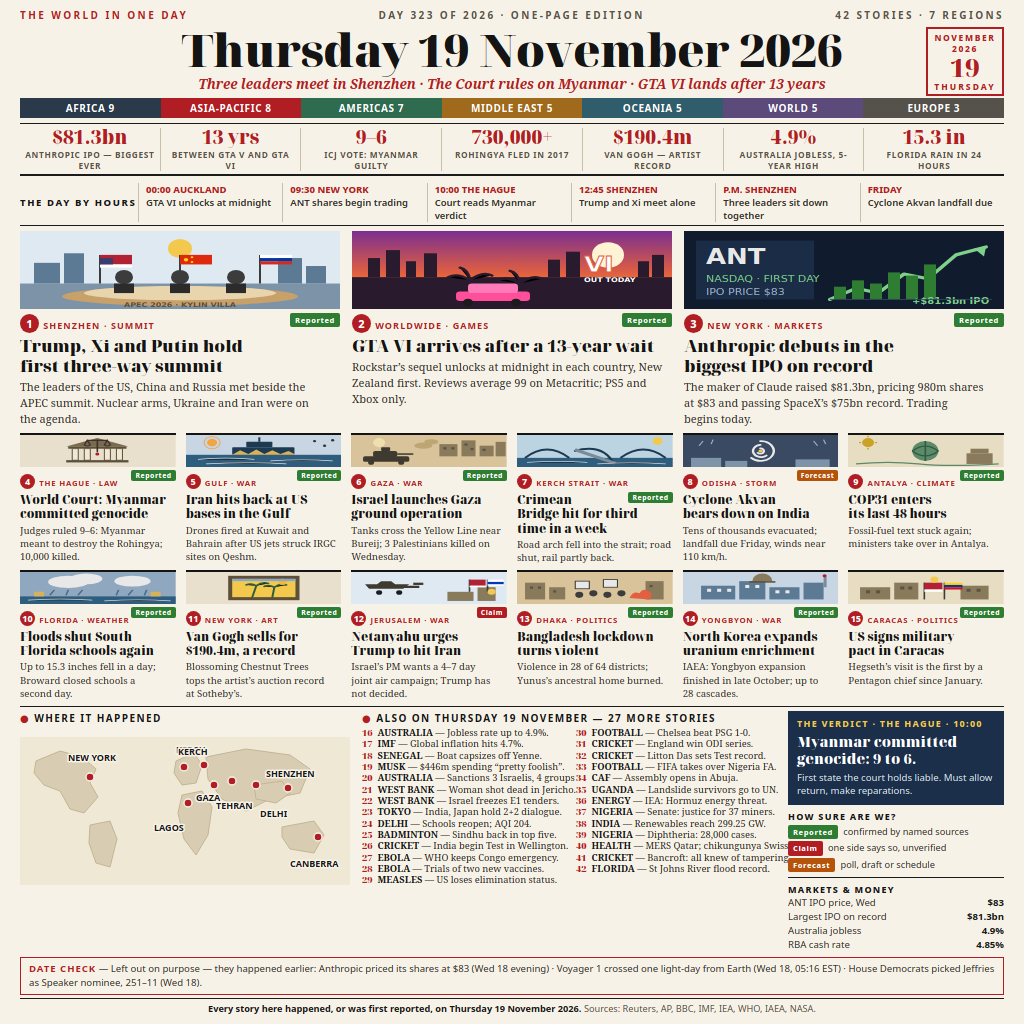
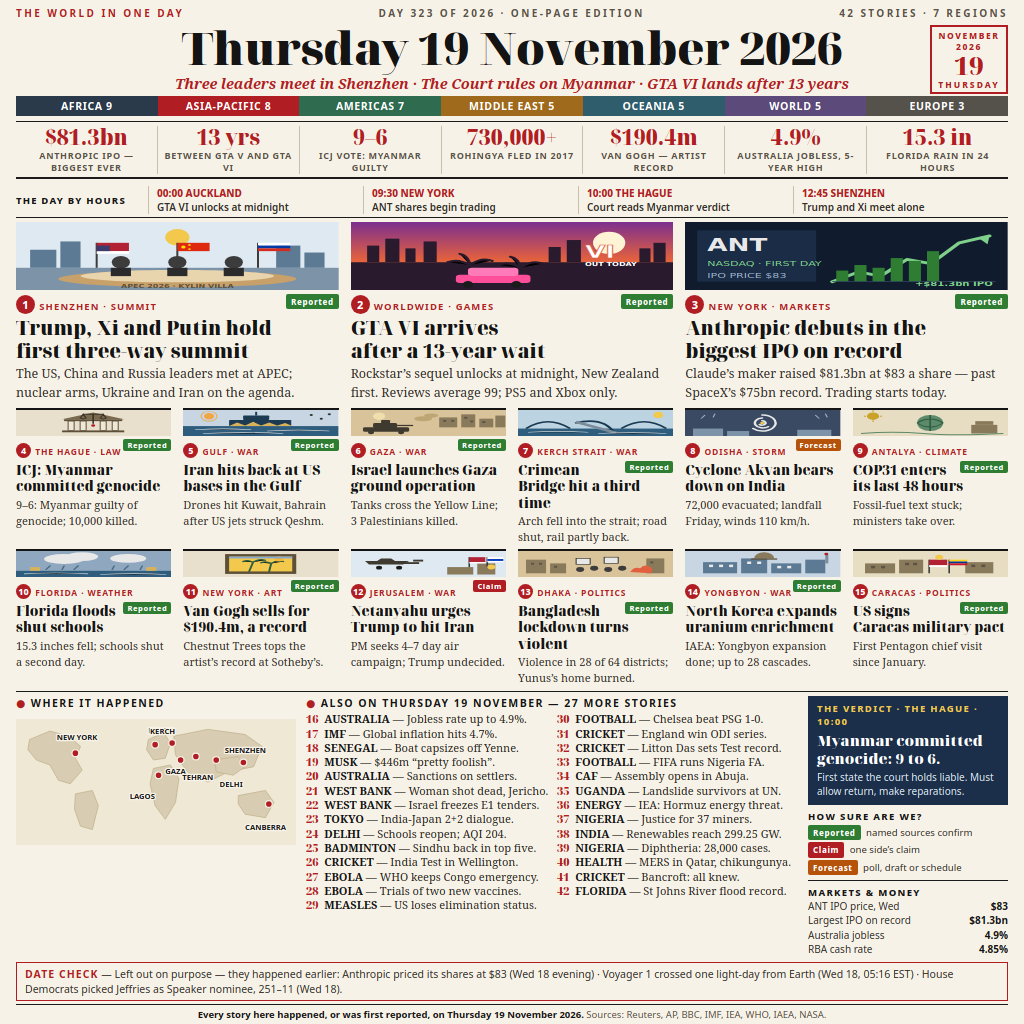
Round 3: bigger type for 300px legibility, same 42 stories

diff --git a/page.html b/page.html
@@ -14,7 +14,7 @@
   body { background: var(--paper); }
   .page {
     width: 1024px; height: 1024px; margin: 0 auto;
-    padding: 8px 20px 6px;
+    padding: 6px 16px 4px;
     background: var(--paper); color: var(--ink);
     font-family: "Noto Serif", "DejaVu Serif", Georgia, serif;
     overflow: hidden;
@@ -51,14 +51,14 @@
   .datebox .w { font-size: 8.5px; font-weight: 800; letter-spacing: 2px; }
   .subline {
     text-align: center; font-style: italic; font-weight: 700;
-    font-size: 13.5px; line-height: 1.3; color: var(--red); margin-top: 3px;
+    font-size: 14.5px; line-height: 1.25; color: var(--red); margin-top: 3px;
   }
 
   /* ---------- region bar ---------- */
   .regions {
     display: flex; margin-top: 4px;
     font-family: "Noto Sans", "DejaVu Sans", sans-serif;
-    font-size: 10px; font-weight: 700; letter-spacing: 0.06em; text-transform: uppercase;
+    font-size: 10.5px; font-weight: 700; letter-spacing: 0.06em; text-transform: uppercase;
   }
   .regions div { flex: 1; text-align: center; color: #fff; padding: 3px 0; font-variant-numeric: tabular-nums; }
   .regions .r-af { background: #2b3a4a; } .regions .r-ap { background: #b01e24; }
@@ -75,10 +75,10 @@
   .stat:first-child { border-left: none; }
   .stat .n {
     font-family: "Noto Serif Display", "Noto Serif", serif; font-weight: 900;
-    font-size: 19px; line-height: 1.05; color: var(--red); font-variant-numeric: tabular-nums;
+    font-size: 21px; line-height: 1.05; color: var(--red); font-variant-numeric: tabular-nums;
   }
   .stat .l {
-    font-family: "Noto Sans", "DejaVu Sans", sans-serif; font-size: 8.3px; font-weight: 700;
+    font-family: "Noto Sans", "DejaVu Sans", sans-serif; font-size: 9px; font-weight: 700;
     letter-spacing: 0.08em; text-transform: uppercase; color: var(--mut); margin-top: 2px; line-height: 1.3;
   }
 
@@ -89,17 +89,17 @@
     font-family: "Noto Sans", "DejaVu Sans", sans-serif;
   }
   .timeline .tlabel {
-    flex: 0 0 118px; font-size: 9.5px; font-weight: 800; letter-spacing: 1.6px;
+    flex: 0 0 132px; font-size: 9.5px; font-weight: 800; letter-spacing: 1.2px;
     text-transform: uppercase; color: var(--ink); align-self: center;
   }
-  .timeline .slot { flex: 1; padding: 0 7px; border-left: 1px solid var(--hair); }
-  .timeline .tm { font-size: 9.5px; font-weight: 800; color: var(--red); font-variant-numeric: tabular-nums; }
-  .timeline .tx { font-size: 9.5px; font-weight: 600; color: #33302a; line-height: 1.3; margin-top: 1px; }
+  .timeline .slot { flex: 1; padding: 0 8px; border-left: 1px solid var(--hair); }
+  .timeline .tm { font-size: 10px; font-weight: 800; color: var(--red); font-variant-numeric: tabular-nums; }
+  .timeline .tx { font-size: 10px; font-weight: 600; color: #33302a; line-height: 1.35; margin-top: 1px; white-space: nowrap; }
 
   /* ---------- hero cards ---------- */
-  .heroes { display: flex; gap: 12px; margin-top: 5px; }
+  .heroes { display: flex; gap: 12px; margin-top: 4px; }
   .hero { flex: 1; min-width: 0; }
-  .hero svg.scene { display: block; width: 100%; height: 78px; }
+  .hero svg.scene { display: block; width: 100%; height: 68px; }
   .num {
     display: inline-block; width: 19px; height: 19px; line-height: 19px; text-align: center;
     border-radius: 50%; background: var(--red); color: #fff;
@@ -107,84 +107,83 @@
     font-variant-numeric: tabular-nums; vertical-align: 1px;
   }
   .kick {
-    font-family: "Noto Sans", "DejaVu Sans", sans-serif; font-size: 9px; font-weight: 700;
+    font-family: "Noto Sans", "DejaVu Sans", sans-serif; font-size: 9.5px; font-weight: 700;
     letter-spacing: 0.12em; text-transform: uppercase; color: var(--red);
   }
   .tag {
     float: right; font-family: "Noto Sans", "DejaVu Sans", sans-serif;
-    font-size: 7.5px; font-weight: 800; letter-spacing: 0.08em; color: #fff;
+    font-size: 8px; font-weight: 800; letter-spacing: 0.08em; color: #fff;
     padding: 2px 5px; border-radius: 2px; margin-top: 1px;
   }
   .tag.rep { background: var(--green); } .tag.fc { background: var(--amber); } .tag.cl { background: var(--red); }
   .hero h2 {
     font-family: "Noto Serif Display", "Noto Serif", serif; font-weight: 900;
-    font-size: 17px; line-height: 1.18; letter-spacing: -0.005em; margin-top: 2px; color: var(--ink);
+    font-size: 19.5px; line-height: 1.15; letter-spacing: -0.005em; margin-top: 2px; color: var(--ink);
     text-wrap: balance;
   }
-  .hero p { font-size: 11px; line-height: 1.45; color: #33302a; margin-top: 3px; text-wrap: pretty; }
+  .hero p { font-size: 12.5px; line-height: 1.5; color: #33302a; margin-top: 3px; text-wrap: pretty; }
   .hero .krow { margin-top: 3px; }
 
   /* ---------- mid grid ---------- */
-  .mids { display: flex; gap: 10px; margin-top: 6px; }
+  .mids { display: flex; gap: 12px; margin-top: 5px; }
   .mid { flex: 1; min-width: 0; border-top: 2.5px solid var(--ink); padding-top: 0; }
-  .mid svg.scene { display: block; width: 100%; height: 32px; }
+  .mid svg.scene { display: block; width: 100%; height: 26px; }
   .mid .num { width: 15px; height: 15px; line-height: 15px; font-size: 9px; }
-  .mid .kick { font-size: 7.8px; letter-spacing: 0.1em; }
-  .mid .tag { font-size: 6.8px; padding: 1px 4px; }
+  .mid .kick { font-size: 8.5px; letter-spacing: 0.1em; }
+  .mid .tag { font-size: 7.5px; padding: 1px 4px; }
   .mid .krow { margin-top: 2px; }
   .mid h3 {
     font-family: "Noto Serif Display", "Noto Serif", serif; font-weight: 900;
-    font-size: 12px; line-height: 1.2; margin-top: 2px; color: var(--ink);
-    text-wrap: balance;
+    font-size: 13.5px; line-height: 1.22; margin-top: 2px; color: var(--ink);
   }
-  .mid p { font-size: 9.6px; line-height: 1.38; color: #33302a; margin-top: 2px; text-wrap: pretty; }
-  .mids2 { margin-top: 5px; }
+  .mid p { font-size: 11px; line-height: 1.45; color: #33302a; margin-top: 2px; text-wrap: pretty; }
+  .mids2 { margin-top: 4px; }
 
   /* ---------- bottom row ---------- */
-  .bottom { display: flex; gap: 12px; margin-top: 6px; padding-top: 4px; border-top: 1px solid var(--rule); }
-  .mapbox { flex: 0 0 330px; }
-  .mapbox svg { display: block; width: 330px; height: 168px; }
+  .bottom { display: flex; gap: 10px; margin-top: 5px; padding-top: 4px; border-top: 1px solid var(--rule); }
+  .mapbox { flex: 0 0 280px; }
+  .mapbox svg { display: block; width: 280px; height: 140px; }
   .maplabel { font-family: "Noto Sans", "DejaVu Sans", sans-serif; font-size: 9px; font-weight: 700; fill: var(--ink); paint-order: stroke; stroke: var(--paper); stroke-width: 3px; stroke-linejoin: round; }
   .sect {
-    font-family: "Noto Sans", "DejaVu Sans", sans-serif; font-size: 10px; font-weight: 700;
+    font-family: "Noto Sans", "DejaVu Sans", sans-serif; font-size: 10.5px; font-weight: 700;
     letter-spacing: 0.14em; text-transform: uppercase; color: var(--ink); margin-bottom: 2px;
   }
   .sect span { color: var(--red); }
   .alsobox { flex: 1; min-width: 0; }
-  .alsocols { display: flex; gap: 14px; }
+  .alsocols { display: flex; gap: 10px; }
   .alsocol { flex: 1; min-width: 0; }
-  .alsoitem { font-size: 9.3px; line-height: 1.22; color: #2b2822; padding: 0; white-space: nowrap; }
+  .alsoitem { font-size: 11px; line-height: 1.3; color: #2b2822; padding: 0; white-space: nowrap; }
   .alsoitem .no { font-family: "Noto Serif Display", serif; font-weight: 900; color: var(--red); font-variant-numeric: tabular-nums; }
   .alsoitem b { color: var(--ink); }
-  .rail { flex: 0 0 216px; }
+  .rail { flex: 0 0 200px; }
   .verdict {
     background: var(--navy); color: #fff; padding: 6px 9px 7px;
     font-family: "Noto Sans", "DejaVu Sans", sans-serif;
   }
-  .verdict .vh { font-size: 9px; font-weight: 800; letter-spacing: 0.14em; color: #f2c94c; }
+  .verdict .vh { font-size: 9.5px; font-weight: 800; letter-spacing: 0.14em; color: #f2c94c; }
   .verdict .vb {
     font-family: "Noto Serif Display", "Noto Serif", serif; font-weight: 900;
-    font-size: 14.5px; line-height: 1.2; margin-top: 3px;
+    font-size: 15px; line-height: 1.2; margin-top: 3px;
   }
-  .verdict .vd { font-size: 9.6px; line-height: 1.4; margin-top: 3px; color: #dfe6ef; }
+  .verdict .vd { font-size: 10px; line-height: 1.4; margin-top: 3px; color: #dfe6ef; }
   .legend { margin-top: 5px; font-family: "Noto Sans", "DejaVu Sans", sans-serif; }
-  .legend .lh { font-size: 9px; font-weight: 800; letter-spacing: 0.14em; text-transform: uppercase; color: var(--ink); }
-  .legend .li { font-size: 9.2px; line-height: 1.4; color: #33302a; margin-top: 2px; }
+  .legend .lh { font-size: 9.5px; font-weight: 800; letter-spacing: 0.14em; text-transform: uppercase; color: var(--ink); }
+  .legend .li { font-size: 9.6px; line-height: 1.4; color: #33302a; margin-top: 2px; }
   .legend .li .tag { float: none; display: inline-block; margin: 0 3px 0 0; vertical-align: 0; }
   .markets { margin-top: 5px; padding-top: 5px; border-top: 1px solid var(--rule); font-family: "Noto Sans", "DejaVu Sans", sans-serif; }
-  .markets .mh { font-size: 9px; font-weight: 800; letter-spacing: 0.14em; text-transform: uppercase; color: var(--ink); }
-  .markets .mi { display: flex; justify-content: space-between; font-size: 9.6px; line-height: 1.45; color: #33302a; }
+  .markets .mh { font-size: 9.5px; font-weight: 800; letter-spacing: 0.14em; text-transform: uppercase; color: var(--ink); }
+  .markets .mi { display: flex; justify-content: space-between; font-size: 10px; line-height: 1.45; color: #33302a; }
   .markets .mi b { color: var(--ink); font-variant-numeric: tabular-nums; }
 
   /* ---------- date check + footer ---------- */
   .datecheck {
     margin-top: 5px; padding: 4px 8px; border: 1.5px solid var(--red);
-    font-family: "Noto Sans", "DejaVu Sans", sans-serif; font-size: 9.6px; line-height: 1.45; color: #33302a;
+    font-family: "Noto Sans", "DejaVu Sans", sans-serif; font-size: 10.5px; line-height: 1.4; color: #33302a;
   }
   .datecheck b { color: var(--red); letter-spacing: 0.1em; }
   .foot {
     margin-top: 3px; padding-top: 3px; border-top: 1px solid var(--rule);
-    font-family: "Noto Sans", "DejaVu Sans", sans-serif; font-size: 9.2px; line-height: 1.45; color: var(--mut);
+    font-family: "Noto Sans", "DejaVu Sans", sans-serif; font-size: 9.5px; line-height: 1.45; color: var(--mut);
     text-align: center;
   }
   .foot b { color: var(--ink); }
@@ -234,8 +233,6 @@
     <div class="slot"><div class="tm">09:30 NEW YORK</div><div class="tx">ANT shares begin trading</div></div>
     <div class="slot"><div class="tm">10:00 THE HAGUE</div><div class="tx">Court reads Myanmar verdict</div></div>
     <div class="slot"><div class="tm">12:45 SHENZHEN</div><div class="tx">Trump and Xi meet alone</div></div>
-    <div class="slot"><div class="tm">P.M. SHENZHEN</div><div class="tx">Three leaders sit down together</div></div>
-    <div class="slot"><div class="tm">FRIDAY</div><div class="tx">Cyclone Akvan landfall due</div></div>
   </div>
 
   <!-- ================= HERO ROW: 3 BIG STORIES ================= -->
@@ -266,7 +263,7 @@
       </svg>
       <div class="krow"><span class="num">1</span> <span class="kick">Shenzhen &middot; Summit</span><span class="tag rep">Reported</span></div>
       <h2>Trump, Xi and Putin hold first three-way summit</h2>
-      <p>The leaders of the US, China and Russia met beside the APEC summit. Nuclear arms, Ukraine and Iran were on the agenda.</p>
+      <p>The US, China and Russia leaders met at APEC; nuclear arms, Ukraine and Iran on the agenda.</p>
     </div>
     <div class="hero">
       <svg class="scene" viewBox="0 0 320 98" preserveAspectRatio="none" aria-hidden="true">
@@ -296,7 +293,7 @@
       </svg>
       <div class="krow"><span class="num">2</span> <span class="kick">Worldwide &middot; Games</span><span class="tag rep">Reported</span></div>
       <h2>GTA VI arrives after a 13-year wait</h2>
-      <p>Rockstar&rsquo;s sequel unlocks at midnight in each country, New Zealand first. Reviews average 99 on Metacritic; PS5 and Xbox only.</p>
+      <p>Rockstar&rsquo;s sequel unlocks at midnight, New Zealand first. Reviews average 99; PS5 and Xbox only.</p>
     </div>
     <div class="hero">
       <svg class="scene" viewBox="0 0 320 98" preserveAspectRatio="none" aria-hidden="true">
@@ -313,7 +310,7 @@
       </svg>
       <div class="krow"><span class="num">3</span> <span class="kick">New York &middot; Markets</span><span class="tag rep">Reported</span></div>
       <h2>Anthropic debuts in the biggest IPO on record</h2>
-      <p>The maker of Claude raised $81.3bn, pricing 980m shares at $83 and passing SpaceX&rsquo;s $75bn record. Trading begins today.</p>
+      <p>Claude&rsquo;s maker raised $81.3bn at $83 a share &mdash; past SpaceX&rsquo;s $75bn record. Trading starts today.</p>
     </div>
   </div>
 
@@ -337,8 +334,8 @@
         <circle cx="77" cy="25" r="2" fill="#b01e24"/>
       </svg>
       <div class="krow"><span class="num">4</span> <span class="kick">The Hague &middot; Law</span><span class="tag rep">Reported</span></div>
-      <h3>World Court: Myanmar committed genocide</h3>
-      <p>Judges ruled 9&ndash;6: Myanmar meant to destroy the Rohingya; 10,000 killed.</p>
+      <h3>ICJ: Myanmar committed genocide</h3>
+      <p>9&ndash;6: Myanmar guilty of genocide; 10,000 killed.</p>
     </div>
     <div class="mid">
       <svg class="scene" viewBox="0 0 155 42" preserveAspectRatio="none" aria-hidden="true">
@@ -352,7 +349,7 @@
       </svg>
       <div class="krow"><span class="num">5</span> <span class="kick">Gulf &middot; War</span><span class="tag rep">Reported</span></div>
       <h3>Iran hits back at US bases in the Gulf</h3>
-      <p>Drones fired at Kuwait and Bahrain after US jets struck IRGC sites on Qeshm.</p>
+      <p>Drones hit Kuwait, Bahrain after US jets struck Qeshm.</p>
     </div>
     <div class="mid">
       <svg class="scene" viewBox="0 0 155 42" preserveAspectRatio="none" aria-hidden="true">
@@ -368,7 +365,7 @@
       </svg>
       <div class="krow"><span class="num">6</span> <span class="kick">Gaza &middot; War</span><span class="tag rep">Reported</span></div>
       <h3>Israel launches Gaza ground operation</h3>
-      <p>Tanks cross the Yellow Line near Bureij; 3 Palestinians killed on Wednesday.</p>
+      <p>Tanks cross the Yellow Line; 3 Palestinians killed.</p>
     </div>
     <div class="mid">
       <svg class="scene" viewBox="0 0 155 42" preserveAspectRatio="none" aria-hidden="true">
@@ -386,8 +383,8 @@
         <circle cx="140" cy="8" r="5" fill="#f2c94c"/>
       </svg>
       <div class="krow"><span class="num">7</span> <span class="kick">Kerch Strait &middot; War</span><span class="tag rep">Reported</span></div>
-      <h3>Crimean Bridge hit for third time in a week</h3>
-      <p>Road arch fell into the strait; road shut, rail partly back.</p>
+      <h3>Crimean Bridge hit a third time</h3>
+      <p>Arch fell into the strait; road shut, rail partly back.</p>
     </div>
     <div class="mid">
       <svg class="scene" viewBox="0 0 155 42" preserveAspectRatio="none" aria-hidden="true">
@@ -403,7 +400,7 @@
       </svg>
       <div class="krow"><span class="num">8</span> <span class="kick">Odisha &middot; Storm</span><span class="tag fc">Forecast</span></div>
       <h3>Cyclone Akvan bears down on India</h3>
-      <p>Tens of thousands evacuated; landfall due Friday, winds near 110 km/h.</p>
+      <p>72,000 evacuated; landfall Friday, winds 110 km/h.</p>
     </div>
     <div class="mid">
       <svg class="scene" viewBox="0 0 155 42" preserveAspectRatio="none" aria-hidden="true">
@@ -418,7 +415,7 @@
       </svg>
       <div class="krow"><span class="num">9</span> <span class="kick">Antalya &middot; Climate</span><span class="tag rep">Reported</span></div>
       <h3>COP31 enters its last 48 hours</h3>
-      <p>Fossil-fuel text stuck again; ministers take over in Antalya.</p>
+      <p>Fossil-fuel text stuck; ministers take over.</p>
     </div>
   </div>
 
@@ -437,8 +434,8 @@
         <g stroke="#fff" stroke-width="1" opacity="0.8"><path d="M8 37 Q40 34 72 37 M84 38 Q118 35 150 38"/></g>
       </svg>
       <div class="krow"><span class="num">10</span> <span class="kick">Florida &middot; Weather</span><span class="tag rep">Reported</span></div>
-      <h3>Floods shut South Florida schools again</h3>
-      <p>Up to 15.3 inches fell in a day; Broward closed schools a second day.</p>
+      <h3>Florida floods shut schools</h3>
+      <p>15.3 inches fell; schools shut a second day.</p>
     </div>
     <div class="mid">
       <svg class="scene" viewBox="0 0 155 42" preserveAspectRatio="none" aria-hidden="true">
@@ -453,7 +450,7 @@
       </svg>
       <div class="krow"><span class="num">11</span> <span class="kick">New York &middot; Art</span><span class="tag rep">Reported</span></div>
       <h3>Van Gogh sells for $190.4m, a record</h3>
-      <p>Blossoming Chestnut Trees tops the artist&rsquo;s auction record at Sotheby&rsquo;s.</p>
+      <p>Chestnut Trees tops the artist&rsquo;s record at Sotheby&rsquo;s.</p>
     </div>
     <div class="mid">
       <svg class="scene" viewBox="0 0 155 42" preserveAspectRatio="none" aria-hidden="true">
@@ -468,7 +465,7 @@
       </svg>
       <div class="krow"><span class="num">12</span> <span class="kick">Jerusalem &middot; War</span><span class="tag cl">Claim</span></div>
       <h3>Netanyahu urges Trump to hit Iran</h3>
-      <p>Israel&rsquo;s PM wants a 4&ndash;7 day joint air campaign; Trump has not decided.</p>
+      <p>PM seeks 4&ndash;7 day air campaign; Trump undecided.</p>
     </div>
     <div class="mid">
       <svg class="scene" viewBox="0 0 155 42" preserveAspectRatio="none" aria-hidden="true">
@@ -481,7 +478,7 @@
       </svg>
       <div class="krow"><span class="num">13</span> <span class="kick">Dhaka &middot; Politics</span><span class="tag rep">Reported</span></div>
       <h3>Bangladesh lockdown turns violent</h3>
-      <p>Violence in 28 of 64 districts; Yunus&rsquo;s ancestral home burned.</p>
+      <p>Violence in 28 of 64 districts; Yunus&rsquo;s home burned.</p>
     </div>
     <div class="mid">
       <svg class="scene" viewBox="0 0 155 42" preserveAspectRatio="none" aria-hidden="true">
@@ -497,7 +494,7 @@
       </svg>
       <div class="krow"><span class="num">14</span> <span class="kick">Yongbyon &middot; War</span><span class="tag rep">Reported</span></div>
       <h3>North Korea expands uranium enrichment</h3>
-      <p>IAEA: Yongbyon expansion finished in late October; up to 28 cascades.</p>
+      <p>IAEA: Yongbyon expansion done; up to 28 cascades.</p>
     </div>
     <div class="mid">
       <svg class="scene" viewBox="0 0 155 42" preserveAspectRatio="none" aria-hidden="true">
@@ -510,8 +507,8 @@
         <circle cx="86" cy="10" r="4" fill="#f2c94c"/>
       </svg>
       <div class="krow"><span class="num">15</span> <span class="kick">Caracas &middot; Politics</span><span class="tag rep">Reported</span></div>
-      <h3>US signs military pact in Caracas</h3>
-      <p>Hegseth&rsquo;s visit is the first by a Pentagon chief since January.</p>
+      <h3>US signs Caracas military pact</h3>
+      <p>First Pentagon chief visit since January.</p>
     </div>
   </div>
 
@@ -555,14 +552,14 @@
           <div class="alsoitem"><span class="no">16</span> &nbsp;<b>AUSTRALIA</b> &mdash; Jobless rate up to 4.9%.</div>
           <div class="alsoitem"><span class="no">17</span> &nbsp;<b>IMF</b> &mdash; Global inflation hits 4.7%.</div>
           <div class="alsoitem"><span class="no">18</span> &nbsp;<b>SENEGAL</b> &mdash; Boat capsizes off Yenne.</div>
-          <div class="alsoitem"><span class="no">19</span> &nbsp;<b>MUSK</b> &mdash; $446m spending &ldquo;pretty foolish&rdquo;.</div>
-          <div class="alsoitem"><span class="no">20</span> &nbsp;<b>AUSTRALIA</b> &mdash; Sanctions 3 Israelis, 4 groups</div>
-          <div class="alsoitem"><span class="no">21</span> &nbsp;<b>WEST BANK</b> &mdash; Woman shot dead in Jericho.</div>
+          <div class="alsoitem"><span class="no">19</span> &nbsp;<b>MUSK</b> &mdash; $446m &ldquo;pretty foolish&rdquo;.</div>
+          <div class="alsoitem"><span class="no">20</span> &nbsp;<b>AUSTRALIA</b> &mdash; Sanctions on settlers.</div>
+          <div class="alsoitem"><span class="no">21</span> &nbsp;<b>WEST BANK</b> &mdash; Woman shot dead, Jericho.</div>
           <div class="alsoitem"><span class="no">22</span> &nbsp;<b>WEST BANK</b> &mdash; Israel freezes E1 tenders.</div>
-          <div class="alsoitem"><span class="no">23</span> &nbsp;<b>TOKYO</b> &mdash; India, Japan hold 2+2 dialogue.</div>
+          <div class="alsoitem"><span class="no">23</span> &nbsp;<b>TOKYO</b> &mdash; India-Japan 2+2 dialogue.</div>
           <div class="alsoitem"><span class="no">24</span> &nbsp;<b>DELHI</b> &mdash; Schools reopen; AQI 204.</div>
           <div class="alsoitem"><span class="no">25</span> &nbsp;<b>BADMINTON</b> &mdash; Sindhu back in top five.</div>
-          <div class="alsoitem"><span class="no">26</span> &nbsp;<b>CRICKET</b> &mdash; India begin Test in Wellington.</div>
+          <div class="alsoitem"><span class="no">26</span> &nbsp;<b>CRICKET</b> &mdash; India Test in Wellington.</div>
           <div class="alsoitem"><span class="no">27</span> &nbsp;<b>EBOLA</b> &mdash; WHO keeps Congo emergency.</div>
           <div class="alsoitem"><span class="no">28</span> &nbsp;<b>EBOLA</b> &mdash; Trials of two new vaccines.</div>
           <div class="alsoitem"><span class="no">29</span> &nbsp;<b>MEASLES</b> &mdash; US loses elimination status.</div>
@@ -571,15 +568,15 @@
           <div class="alsoitem"><span class="no">30</span> &nbsp;<b>FOOTBALL</b> &mdash; Chelsea beat PSG 1-0.</div>
           <div class="alsoitem"><span class="no">31</span> &nbsp;<b>CRICKET</b> &mdash; England win ODI series.</div>
           <div class="alsoitem"><span class="no">32</span> &nbsp;<b>CRICKET</b> &mdash; Litton Das sets Test record.</div>
-          <div class="alsoitem"><span class="no">33</span> &nbsp;<b>FOOTBALL</b> &mdash; FIFA takes over Nigeria FA.</div>
+          <div class="alsoitem"><span class="no">33</span> &nbsp;<b>FOOTBALL</b> &mdash; FIFA runs Nigeria FA.</div>
           <div class="alsoitem"><span class="no">34</span> &nbsp;<b>CAF</b> &mdash; Assembly opens in Abuja.</div>
-          <div class="alsoitem"><span class="no">35</span> &nbsp;<b>UGANDA</b> &mdash; Landslide survivors go to UN.</div>
+          <div class="alsoitem"><span class="no">35</span> &nbsp;<b>UGANDA</b> &mdash; Landslide survivors at UN.</div>
           <div class="alsoitem"><span class="no">36</span> &nbsp;<b>ENERGY</b> &mdash; IEA: Hormuz energy threat.</div>
-          <div class="alsoitem"><span class="no">37</span> &nbsp;<b>NIGERIA</b> &mdash; Senate: justice for 37 miners.</div>
+          <div class="alsoitem"><span class="no">37</span> &nbsp;<b>NIGERIA</b> &mdash; Justice for 37 miners.</div>
           <div class="alsoitem"><span class="no">38</span> &nbsp;<b>INDIA</b> &mdash; Renewables reach 299.25 GW.</div>
           <div class="alsoitem"><span class="no">39</span> &nbsp;<b>NIGERIA</b> &mdash; Diphtheria: 28,000 cases.</div>
-          <div class="alsoitem"><span class="no">40</span> &nbsp;<b>HEALTH</b> &mdash; MERS Qatar; chikungunya Swiss.</div>
-          <div class="alsoitem"><span class="no">41</span> &nbsp;<b>CRICKET</b> &mdash; Bancroft: all knew of tampering.</div>
+          <div class="alsoitem"><span class="no">40</span> &nbsp;<b>HEALTH</b> &mdash; MERS in Qatar, chikungunya.</div>
+          <div class="alsoitem"><span class="no">41</span> &nbsp;<b>CRICKET</b> &mdash; Bancroft: all knew.</div>
           <div class="alsoitem"><span class="no">42</span> &nbsp;<b>FLORIDA</b> &mdash; St Johns River flood record.</div>
         </div>
       </div>
@@ -592,8 +589,8 @@
       </div>
       <div class="legend">
         <div class="lh">How sure are we?</div>
-        <div class="li"><span class="tag rep">Reported</span> confirmed by named sources</div>
-        <div class="li"><span class="tag cl">Claim</span> one side says so, unverified</div>
+        <div class="li"><span class="tag rep">Reported</span> named sources confirm</div>
+        <div class="li"><span class="tag cl">Claim</span> one side&rsquo;s claim</div>
         <div class="li"><span class="tag fc">Forecast</span> poll, draft or schedule</div>
       </div>
       <div class="markets">

diff --git a/main.ts b/main.ts
@@ -1,5 +1,8 @@
-// Entry program for news-image-20261119, round 2 (Node 22, standard library only).
-// Round 2 rebuilds the page on the winning structure: a light cream newspaper
+// Entry program for news-image-20261119, round 3 (Node 22, standard library only).
+// Round 3 keeps round 2's winning structure and the same 42 verified stories,
+// but rebuilds the type scale for legibility at 300px: bigger headlines, decks
+// and list type throughout, more air between cards, a slimmer 4-slot timeline
+// and shorter hero/mid illustrations. The image is entry.png beside this file;
 // front page, 1024x1024, with 42 verified stories — 3 hero cards with large
 // drawn scenes (Shenzhen trilateral summit, GTA VI's release, Anthropic's
 // record $81.3bn IPO), 12 mid cards with small drawings (the ICJ's 9-6 Myanmar
